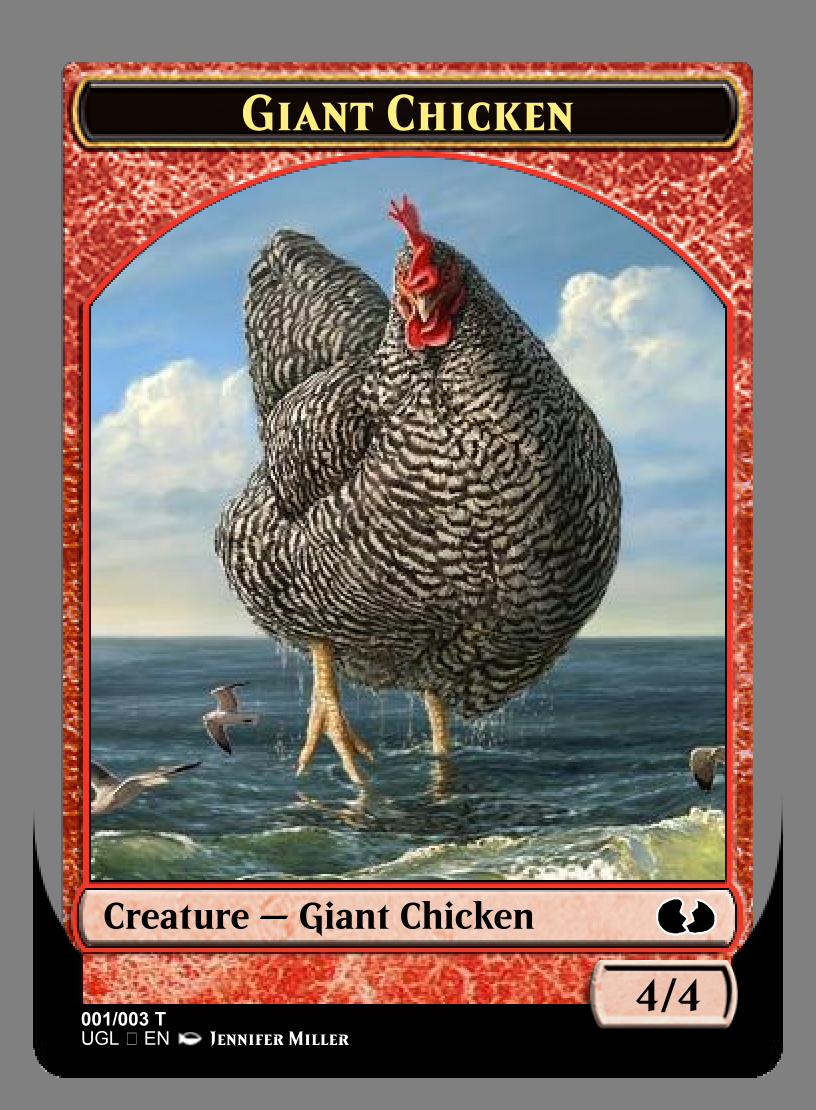
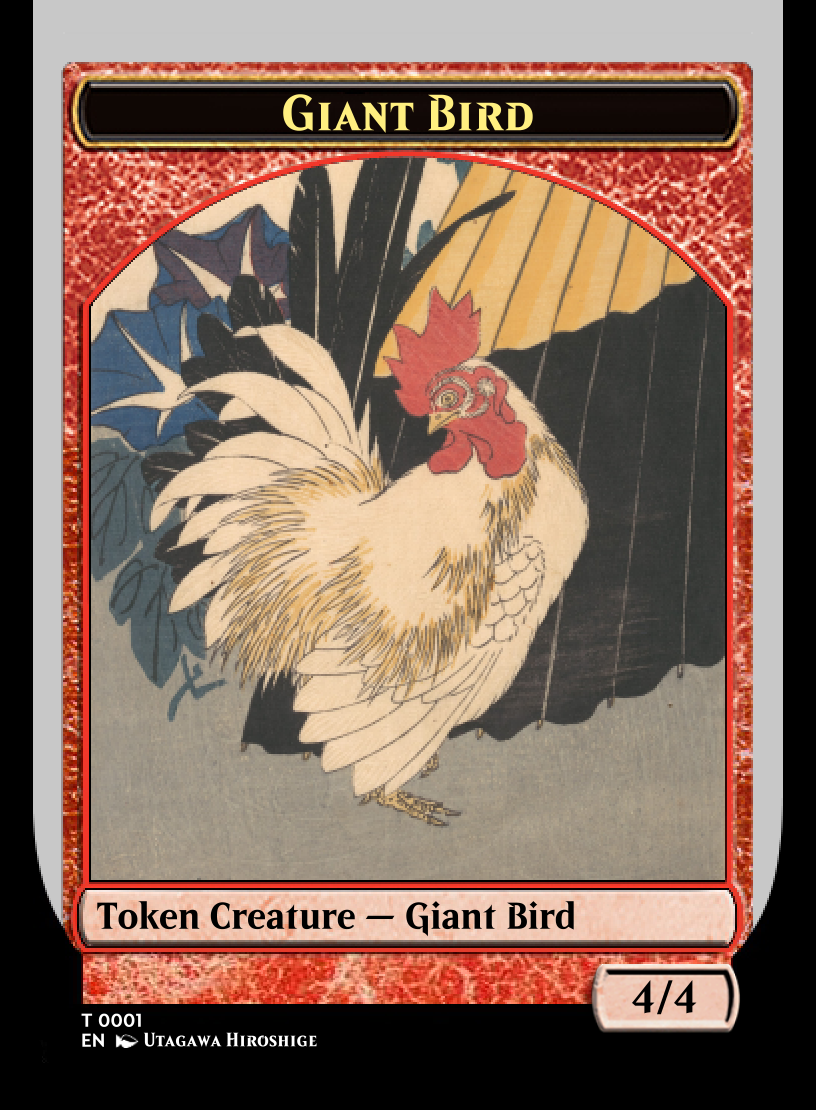
fix 4/4 red Giant Bird creature

diff --git a/TODO.md b/TODO.md
@@ -6,8 +6,6 @@
 
 ## Fix cards
 
-- UGL: _4/4 red Giant Bird creature token_ should have the name "Giant Bird" instead
-  of "Giant Chicken."
 - CMB1: _Krosan Adaptation token_ should have its mana cost in its reminder text.
 - CMB1: _Pacifism token_ should have its mana cost in its reminder text.
 - CMB1: _Reassembling Skeleton token_ should have its mana cost in its reminder text.
